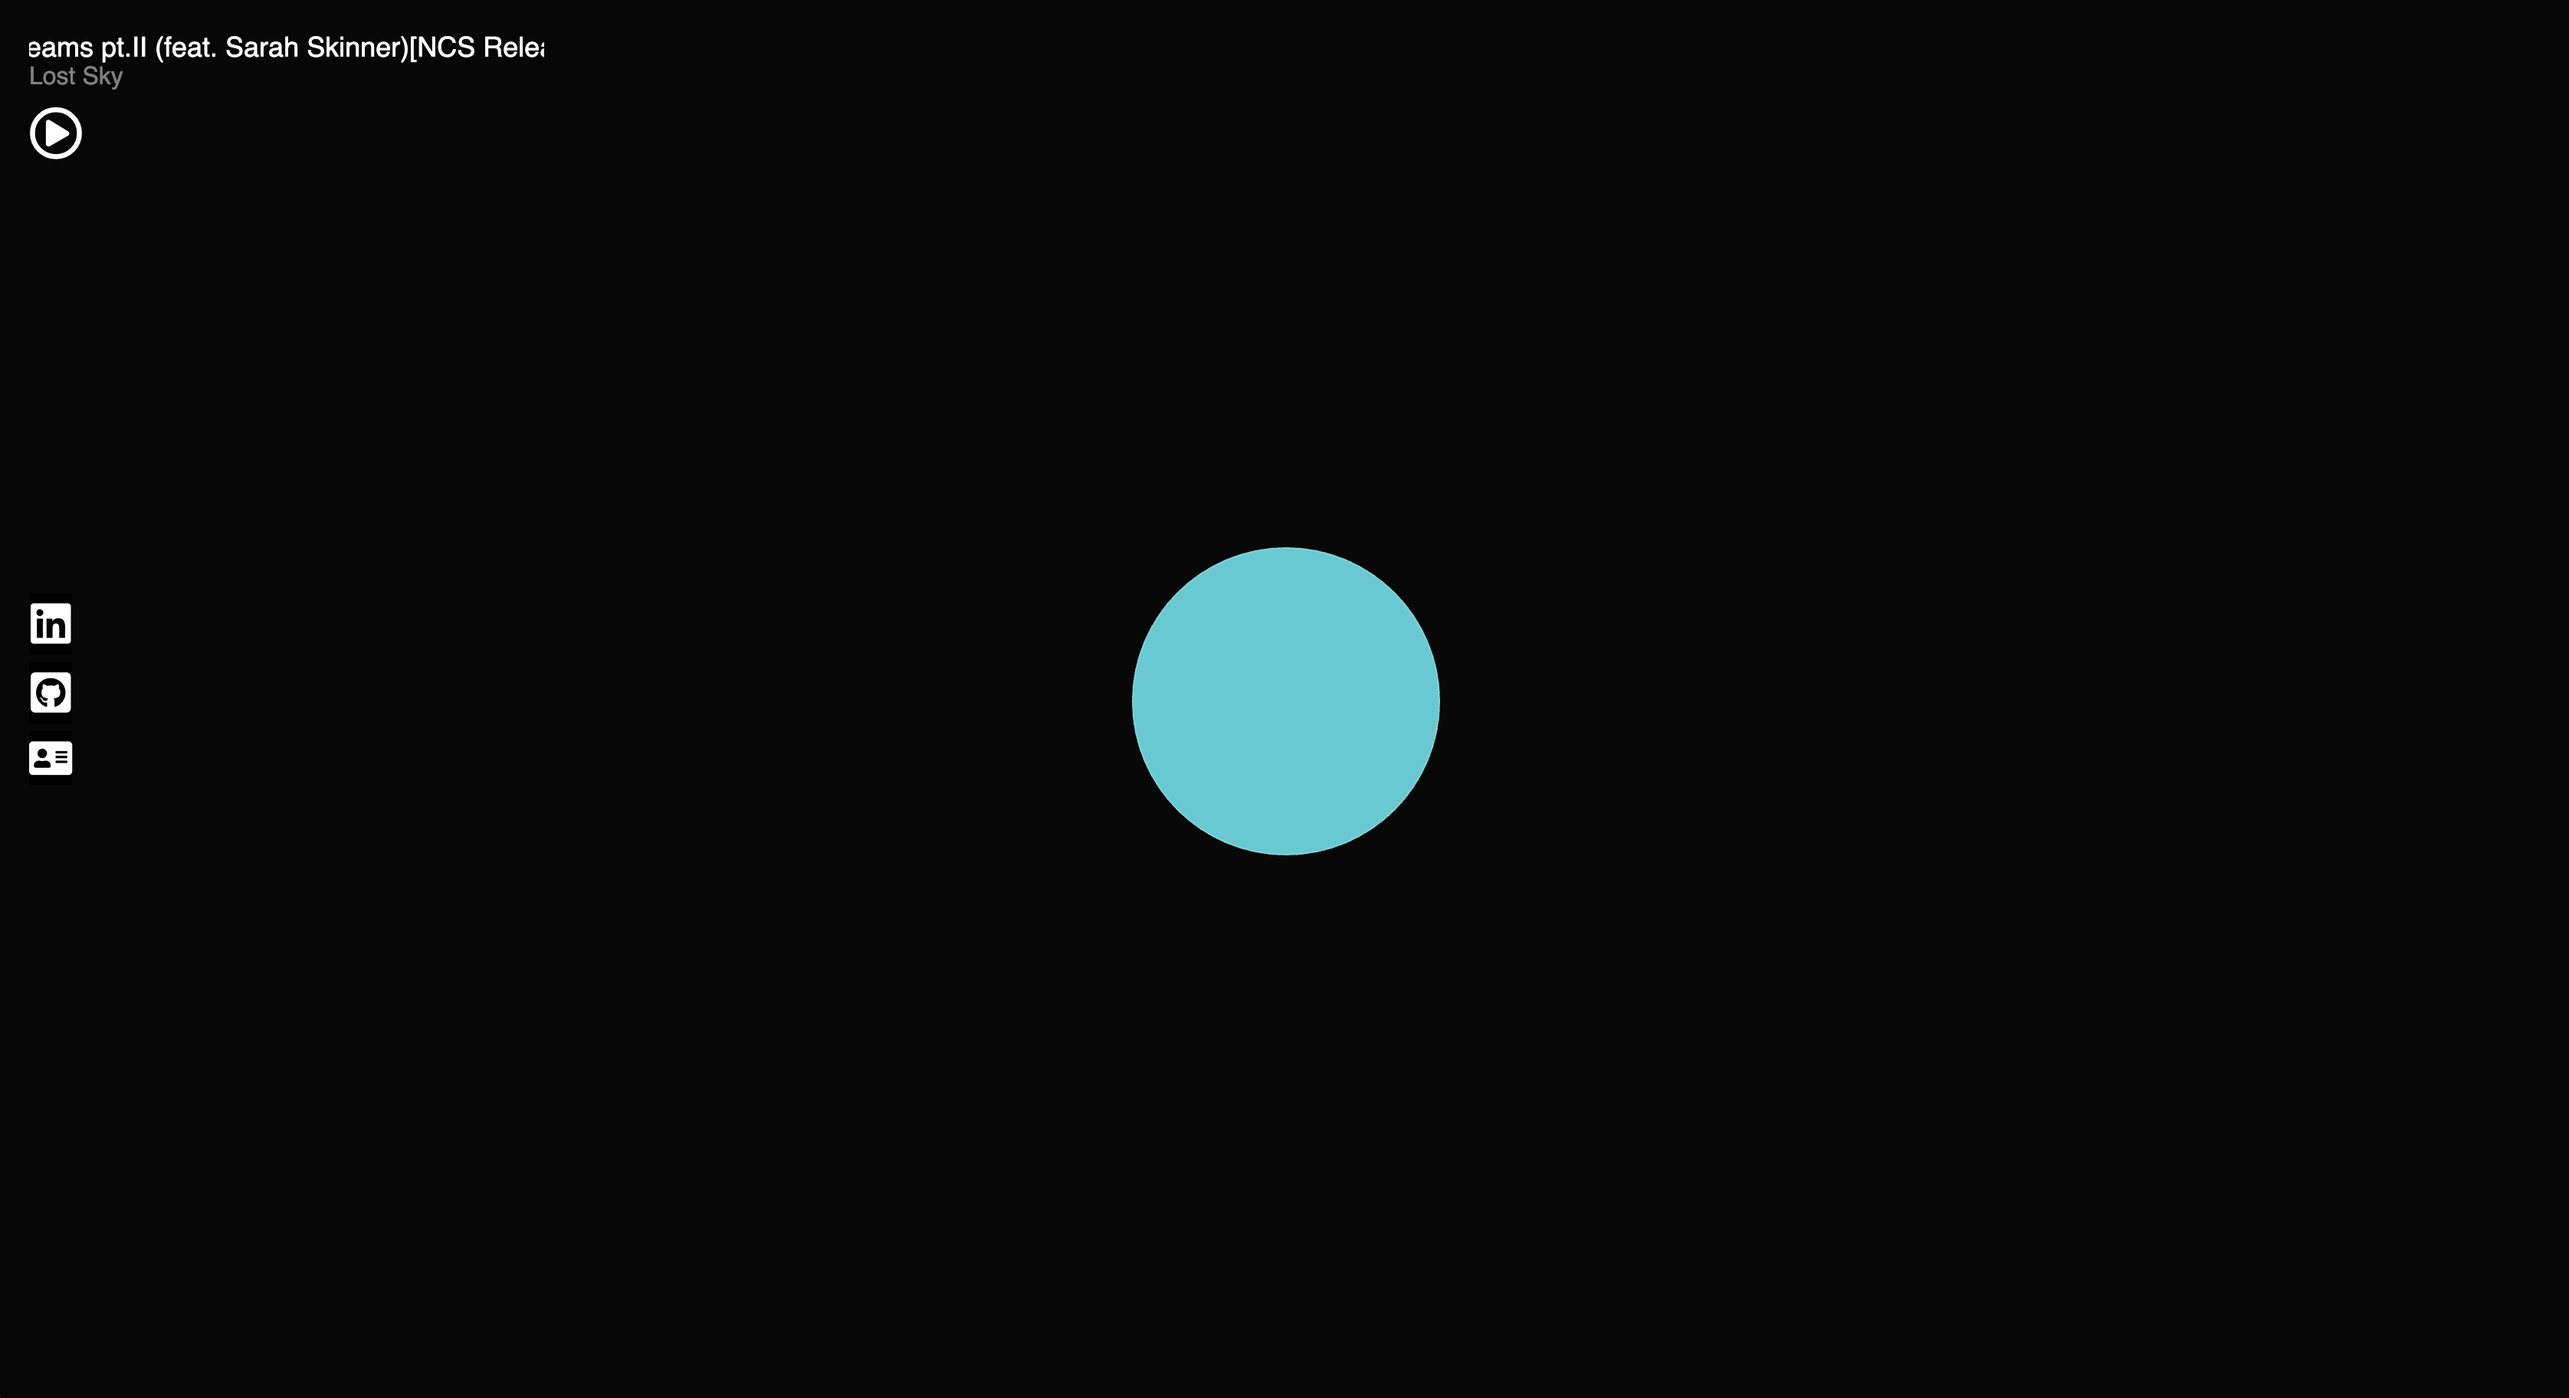
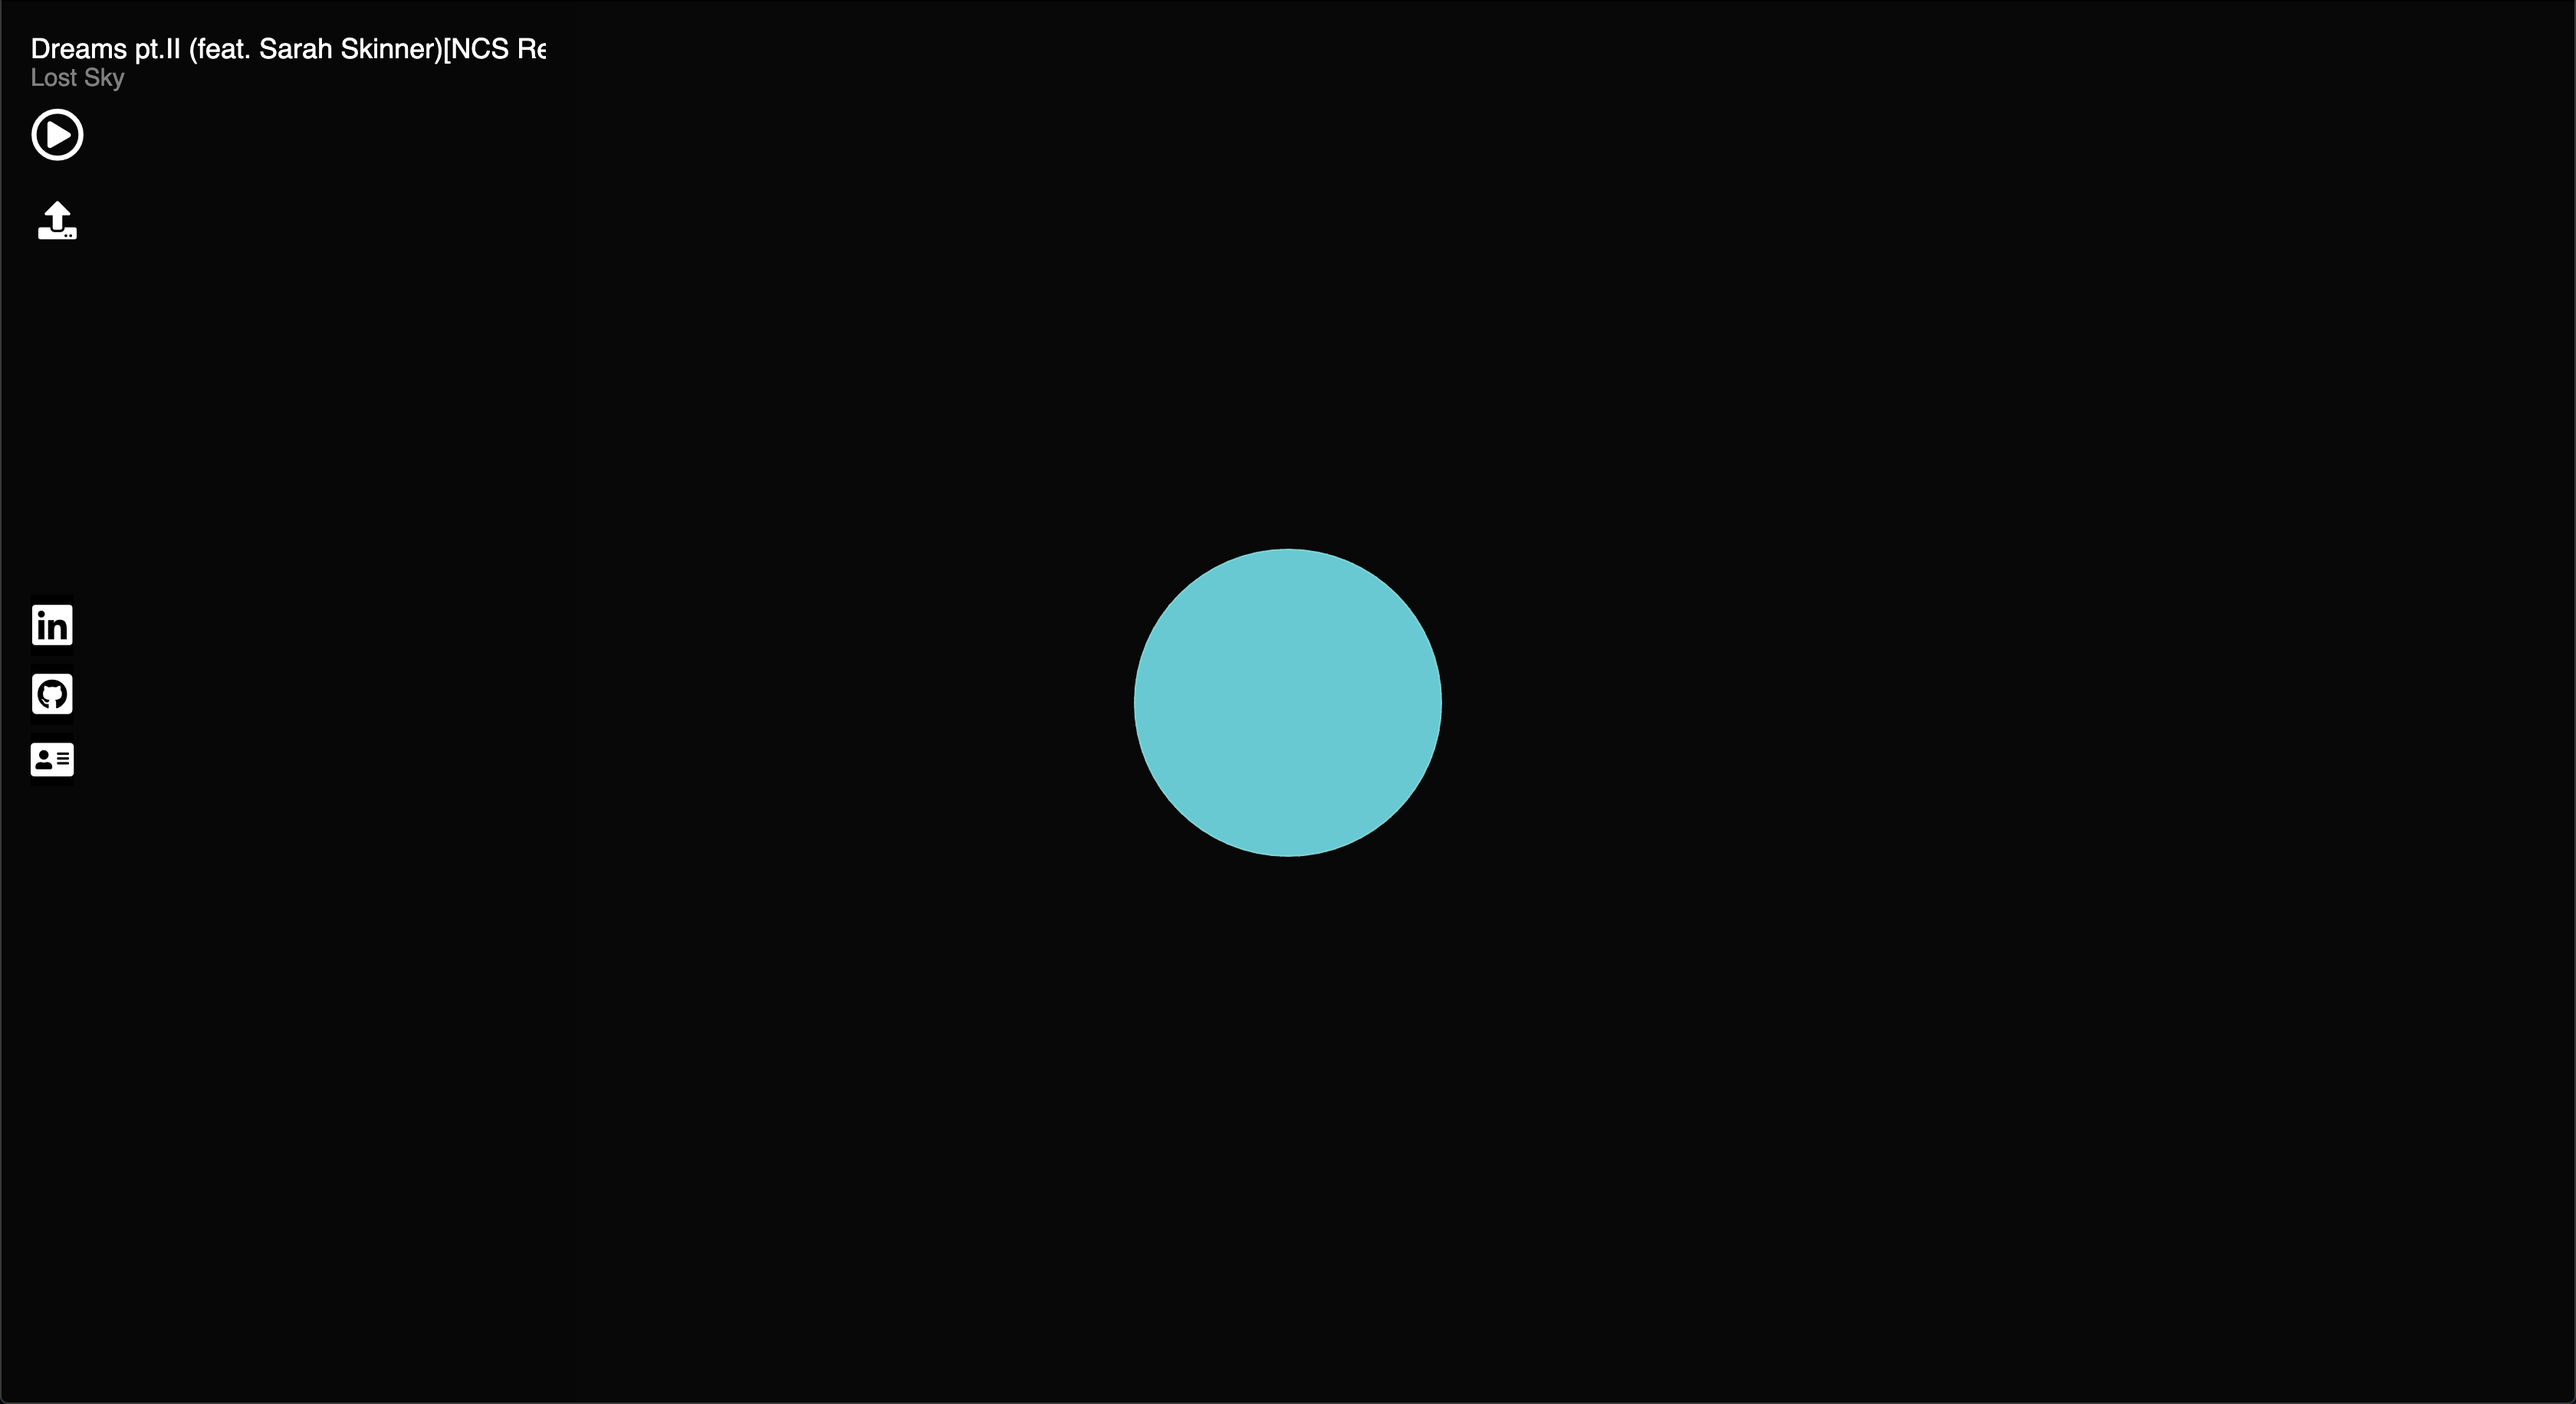
new visualizer image

diff --git a/README.md b/README.md
@@ -12,7 +12,7 @@ Visible is an audio visualizer that takes properties from audio files, and rende
 
 ### Features ###
 - Audio Visualizer
-- Users are able to choose a song from their files(on development)
+- Users are able to upload a song from their files
 - Full Screen
 
 #### Challenges ####
@@ -22,7 +22,8 @@ Visible is an audio visualizer that takes properties from audio files, and rende
 - Reviewing trigonometry to render the correct shapes.
 
 ### Wireframes ###
-- (comming soon)
+![Welcome-Screen](https://github.com/aparcanapavel/visible/blob/master/assets/welcome.png?raw=true)
+- Upon Visiting the page, users will be greeted with a welcome modal
 
 ### Timeline ###
 #### Day 1 ####
